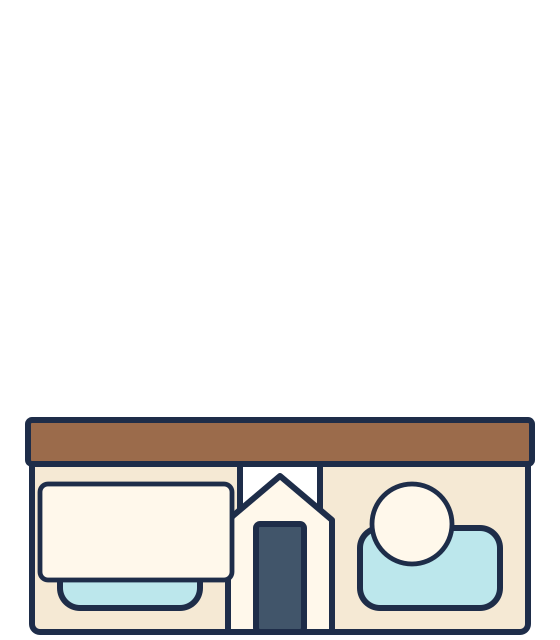
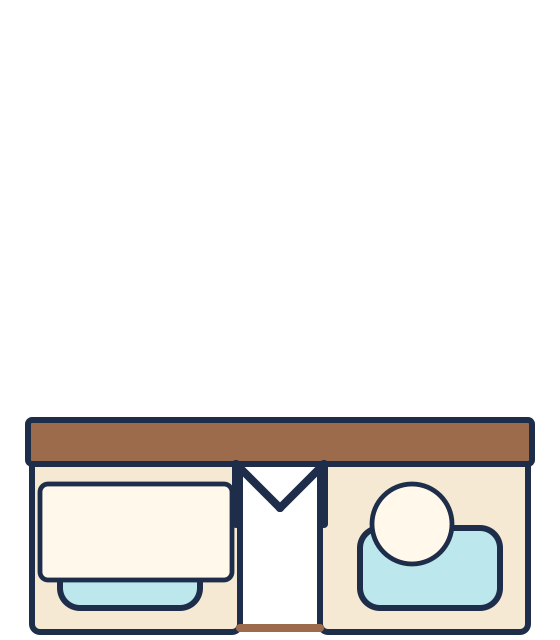
Differentiate courtyard restaurant preset across levels

Changed region(s): [[0.3946, 0.7188, 0.6071, 1.0]]

diff --git a/docs/DECISIONS.md b/docs/DECISIONS.md
@@ -204,6 +204,7 @@ The [invite-beta release checklist](RELEASE_CHECKLIST.md) is the current cross-p
 - The optional production monitor previously watched the shared database, indexer freshness, image budget and inspector but could miss an API process outage while those stayed healthy. It now probes the API's Docker-network `/health` endpoint, requires the expected service JSON, and emits a critical `API_UNAVAILABLE` alert with normal reminder/recovery behavior. API recovery remains reportable even if the database is separately unavailable, and `--run` rejects a missing API health URL. All 26 worker tests pass, the production Compose override validates, and a local API container probe returned healthy while running and unavailable after stop. [Local record](../deployments/local-api-health-monitor.json). The external HTTPS path and real authenticated alert receiver remain unverified.
 - The monitor now emits a separate authenticated heartbeat every five minutes in `--run` mode. An operator-controlled receiver outside the game VPS must alert if it misses 15 minutes of heartbeats; otherwise a whole-VPS outage cannot be detected by a monitor that runs on that VPS. Heartbeat delivery retries on the next pass, and the receiver must check public HTTPS separately. Local tests cover cadence and failed-send retry. No external receiver or missed-heartbeat alarm has been exercised yet.
 - Backup verification now rejects extra files in the archive root and symlinked archive directories before copying anything on restore. This exposed a bug in the backup itself: copying a SQLite database in WAL mode left unlisted `estate.sqlite-wal` and `estate.sqlite-shm` files beside the manifest. The tool now switches only the copied database to DELETE journal mode before hashing it, and verification requires a standalone SQLite file. The local restore drill tests exact archive contents, missing referenced artwork, cursor replay and tampered PNGs. An offsite copy and target-VPS restore still need live evidence.
+- Visual review of the curated street facades found that the second restaurant shape still read as another solid block at level 1. Its two wings now leave a visible courtyard gap, with the name positioned on the shared roof band, across all four level envelopes. The ten-shape contact sheet is generated from the same catalog as the neighbour sheet; `assets:check` compares both committed sheets with freshly rendered output. All 40 facade hashes and bounds and the 24 cars/five civic sprites pass. This improves the curated silhouette but does not establish generated-art quality or physical-phone readability.
 
 ## Open risks
 
